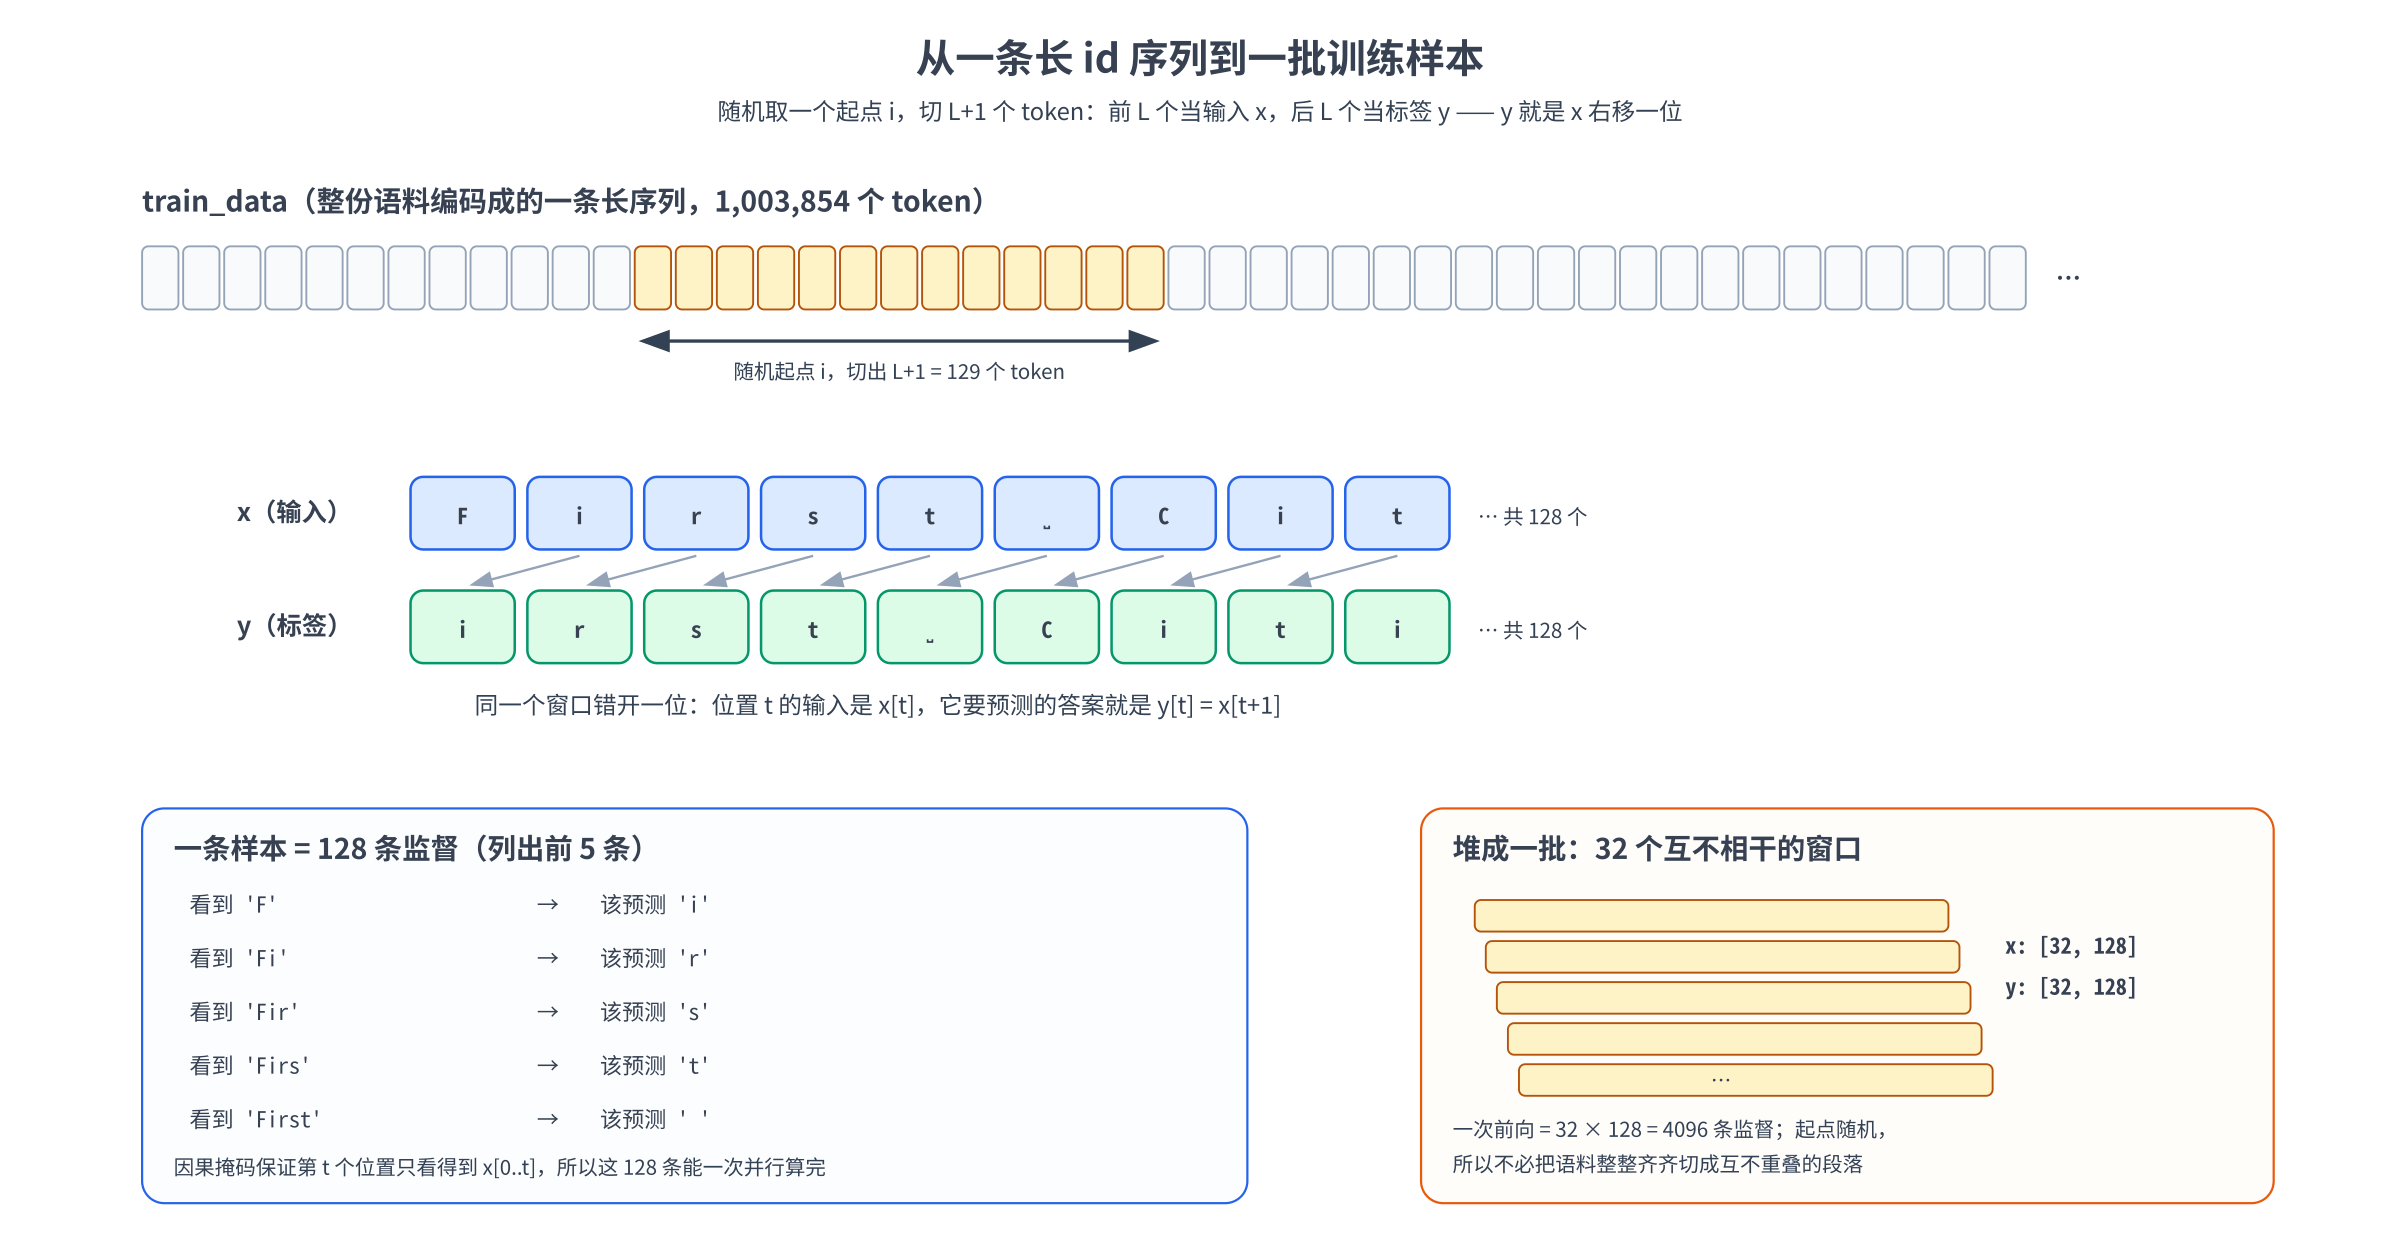
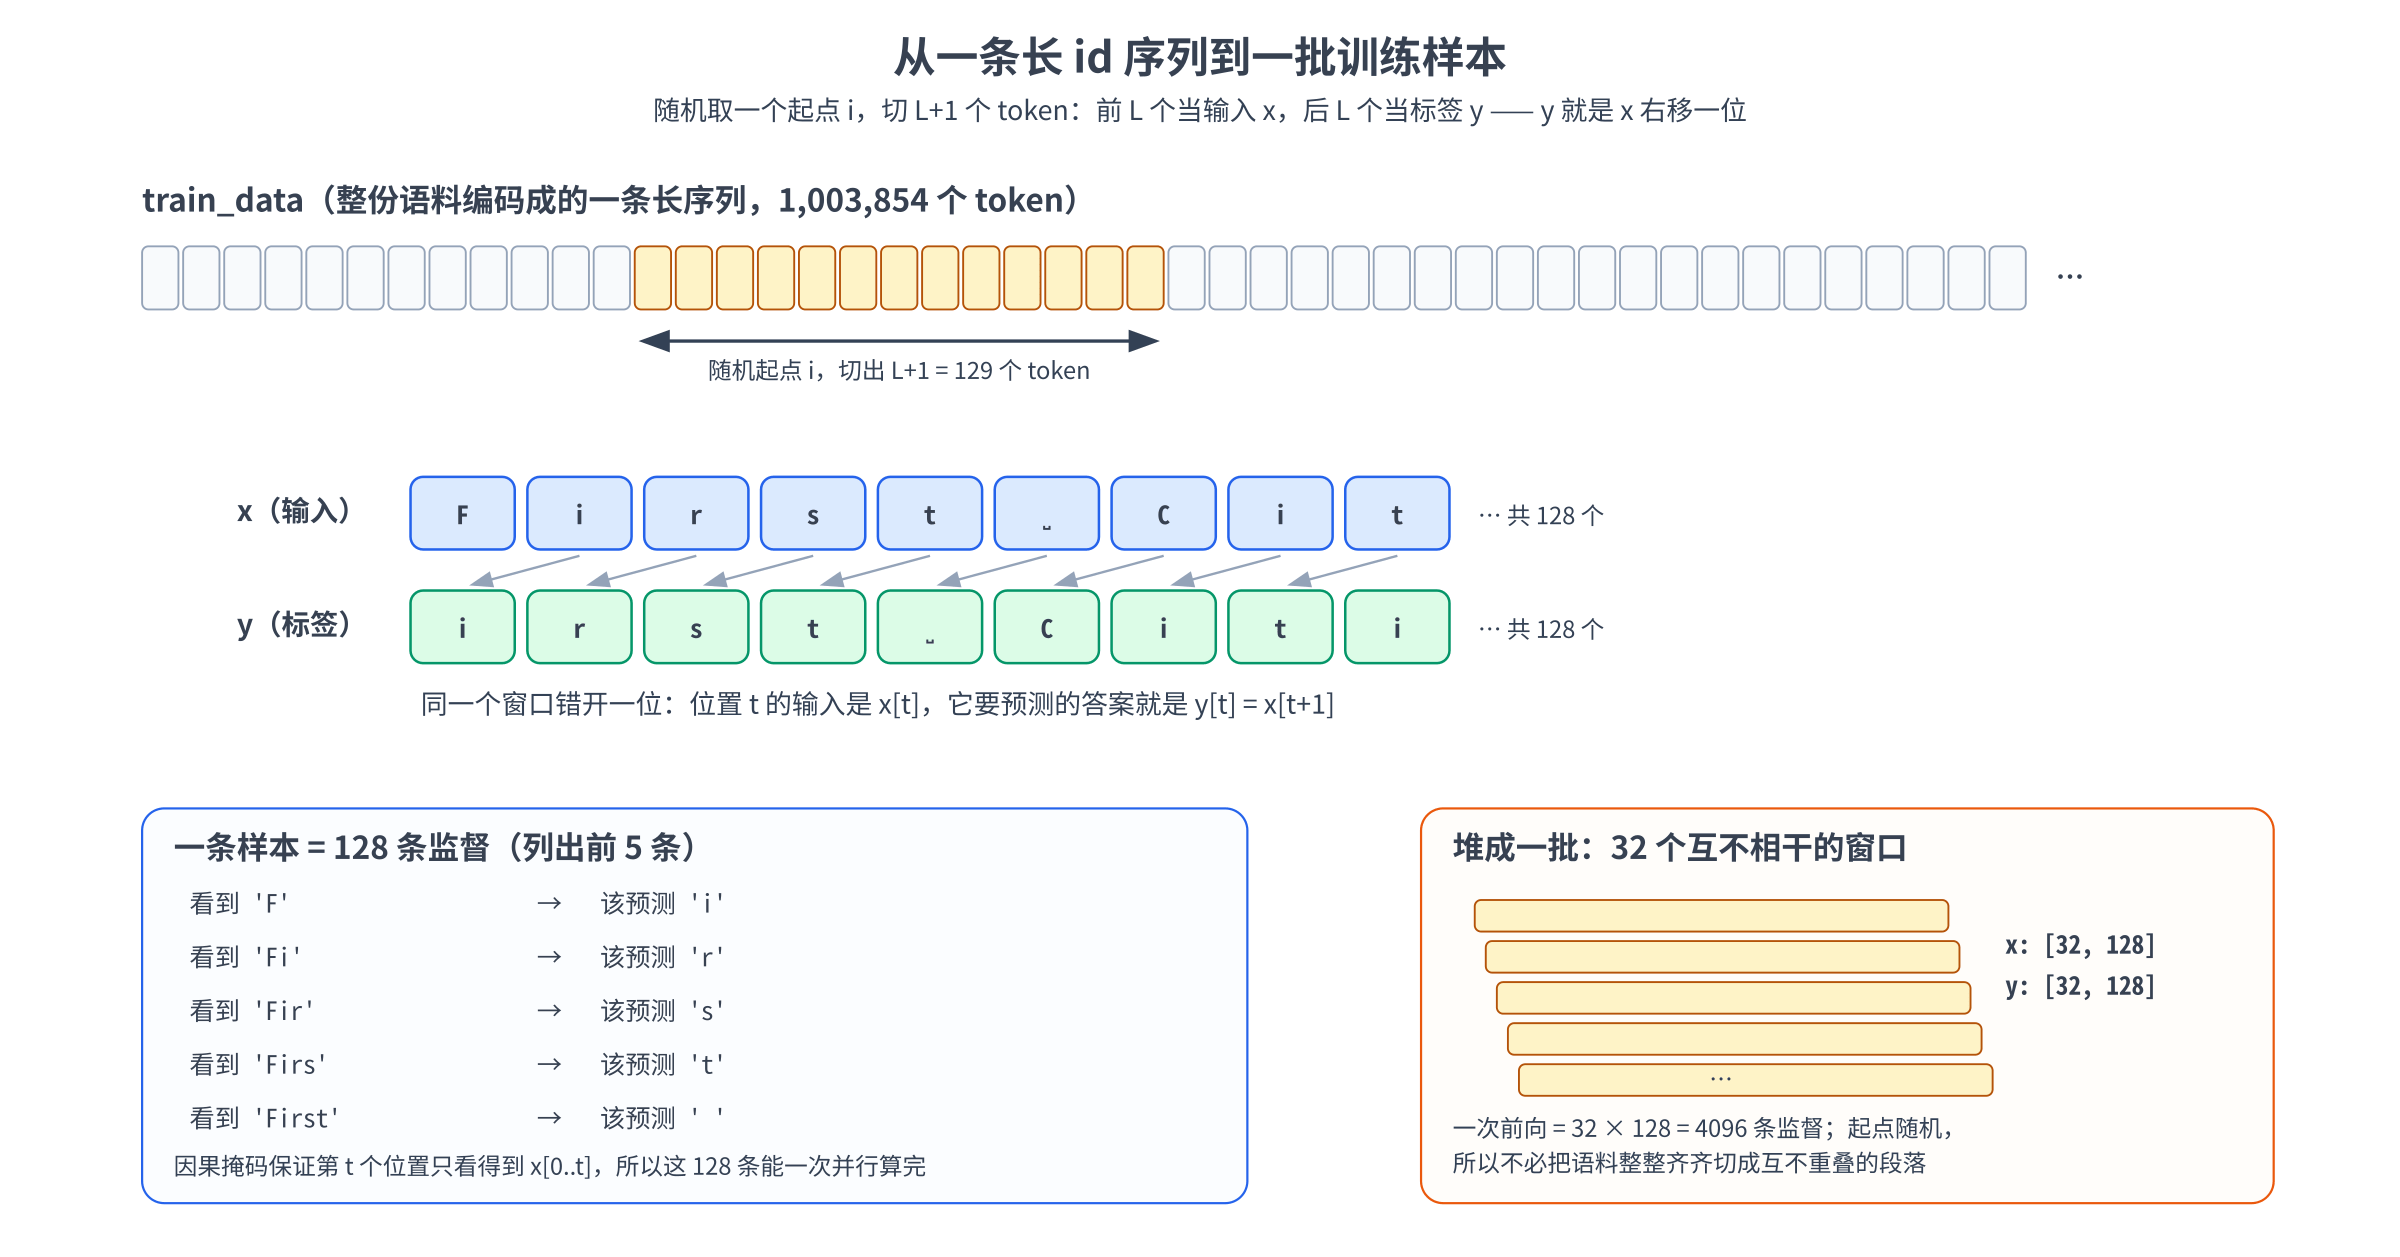
第 13 章：人工通读后的全章修订——校正事实、消除不一致、打磨表达
- 校正事实：tiny-shakespeare 是莎士比亚剧作的节选而非「全部剧作」；规模对照
  表的「四到七个数量级」与表内倍数对不上，改为数据量约七个、参数量约三个；
  get_batch 的 -L-1 边界按 randint 取 [0, n) 重新算清；超长序列先由 forward
  的 assert 拦下而非 cos[:L] 报错；cross_entropy 收的是 logits + 类别 id，
  原文「每个样本一个类别分布」与后文自相矛盾；checkpoint 18 MB / 19 MB 的
  出入来自 1024² 换算；代码行数「一百多行」实测低估，改为全部约 380 行、
  模型定义约 135 行
- 修掉一处 off-by-one：「从 1 个 token 生成到 128 个」与「新增 128 个」不自洽，
  md 与 Cell 12 的 print 同步改成「连续生成 128 个 token，前缀从 1 长到 128」
- 补齐讲解：weight decay 说明补上 lr 缩放，并交代与 nanoGPT 在 param group
  上的差异；第 2.3 节展开「为什么验证集不能随机划分」，补相邻窗口重叠的
  可手算例子；GPT-2 初始化里 N 的含义与第 9 章玩具实验的描述改写得更准确
- 消除重复：梯度范数实测数字、train/val 差距数字、贪心重复陷阱的例子各自
  只保留一处，其余改为指路；embedding 占比三处口径统一为 0.35%
- 打磨表达：开篇成果描述与 1.1 节两段合并，去掉「免费」「通行」「办掉了」
  等词与 off-by-one 收尾句的说教语气，第 1 节标题改为「这一章要做什么」并
  同步 TOC 锚点
- 配图：loop 图文案改为「一次一个字符生成出来」；batching 图整体字号 +2px
  让缩放后的小字更清晰，build 脚本增加按图调字号的 bump 参数

diff --git a/assets/13/build_diagrams.py b/assets/13/build_diagrams.py
@@ -52,20 +52,23 @@ def esc(s: str) -> str:
     return s.replace("&", "&amp;").replace("<", "&lt;").replace(">", "&gt;")
 
 
-def write_svg(path: Path, body: str, viewbox: str):
+def write_svg(path: Path, body: str, viewbox: str, bump: int = 0):
+    """bump: 整体字号加几 px。节点框宽是按基准字号定死的，所以只给版面本来
+    就宽松、放大后不会撑框的图开（当前只有 batching），其余保持基准字号。"""
+    b = bump
     style = f"""
   <style>
     text {{ font-family: {FONT}; }}
-    .title  {{ font-size: 25px; font-weight: 700; fill: {TXT}; }}
-    .h2     {{ font-size: 18px; font-weight: 700; fill: {TXT}; }}
-    .lbl    {{ font-size: 16px; font-weight: 600; fill: {TXT}; }}
-    .sub    {{ font-size: 14px; fill: {SUB}; }}
-    .mono   {{ font-size: 14px; font-family: {MONO}; fill: {TXT}; }}
-    .monob  {{ font-size: 14px; font-weight: 600; font-family: {MONO}; fill: {TXT}; }}
-    .monos  {{ font-size: 13px; font-family: {MONO}; fill: {SUB}; }}
-    .small  {{ font-size: 13px; fill: {SUB}; }}
-    .cap    {{ font-size: 15px; fill: {SUB}; }}
-    .tag    {{ font-size: 13px; font-weight: 700; }}
+    .title  {{ font-size: {25 + b}px; font-weight: 700; fill: {TXT}; }}
+    .h2     {{ font-size: {18 + b}px; font-weight: 700; fill: {TXT}; }}
+    .lbl    {{ font-size: {16 + b}px; font-weight: 600; fill: {TXT}; }}
+    .sub    {{ font-size: {14 + b}px; fill: {SUB}; }}
+    .mono   {{ font-size: {14 + b}px; font-family: {MONO}; fill: {TXT}; }}
+    .monob  {{ font-size: {14 + b}px; font-weight: 600; font-family: {MONO}; fill: {TXT}; }}
+    .monos  {{ font-size: {13 + b}px; font-family: {MONO}; fill: {SUB}; }}
+    .small  {{ font-size: {13 + b}px; fill: {SUB}; }}
+    .cap    {{ font-size: {15 + b}px; fill: {SUB}; }}
+    .tag    {{ font-size: {13 + b}px; font-weight: 700; }}
   </style>
 """
     defs = f"""
@@ -190,7 +193,7 @@ def loop():
     p += node(gx[3], cy2, 220, 92, "温度 / top-k 采样",
               GREEN_F, GREEN_B, "得到 1 个新 token", "旋钮见第 2 章")
     p += node(gx[4], cy2, 200, 92, "输出文本",
-              PINK_F, PINK_B, "decode(ids)", "一次一个字符地长出来")
+              PINK_F, PINK_B, "decode(ids)", "一次一个字符生成出来")
 
     for a, b, wa, wb in [(0, 1, 105, 110), (1, 2, 110, 110), (2, 3, 110, 110),
                          (3, 4, 110, 100)]:
@@ -292,7 +295,7 @@ def batching():
     p.append(txt(bx + 20, by + 230,
                  "所以不必把语料整整齐齐切成互不重叠的段落", cls="small", anchor="start"))
 
-    write_svg(ASSETS / "batching.svg", "\n".join(p), f"0 0 {W} {H}")
+    write_svg(ASSETS / "batching.svg", "\n".join(p), f"0 0 {W} {H}", bump=2)
 
 
 # ============================================================
